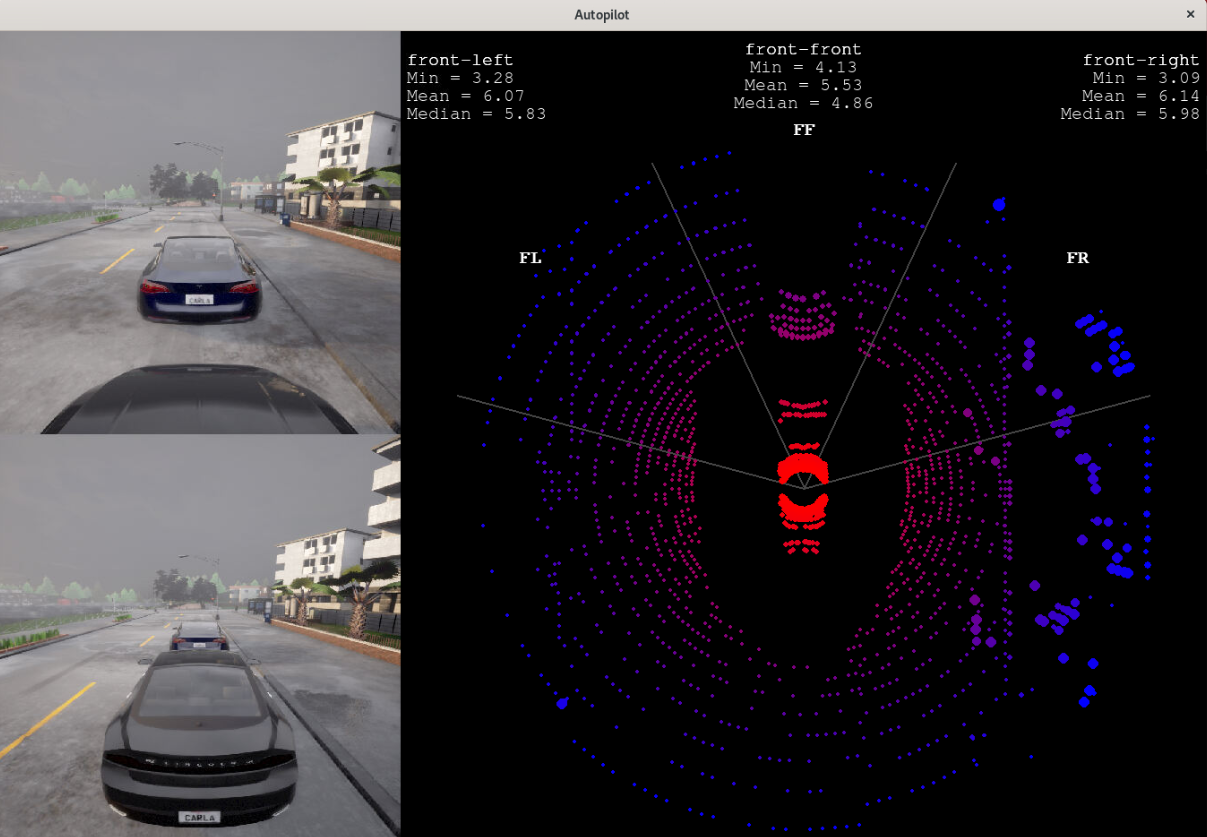
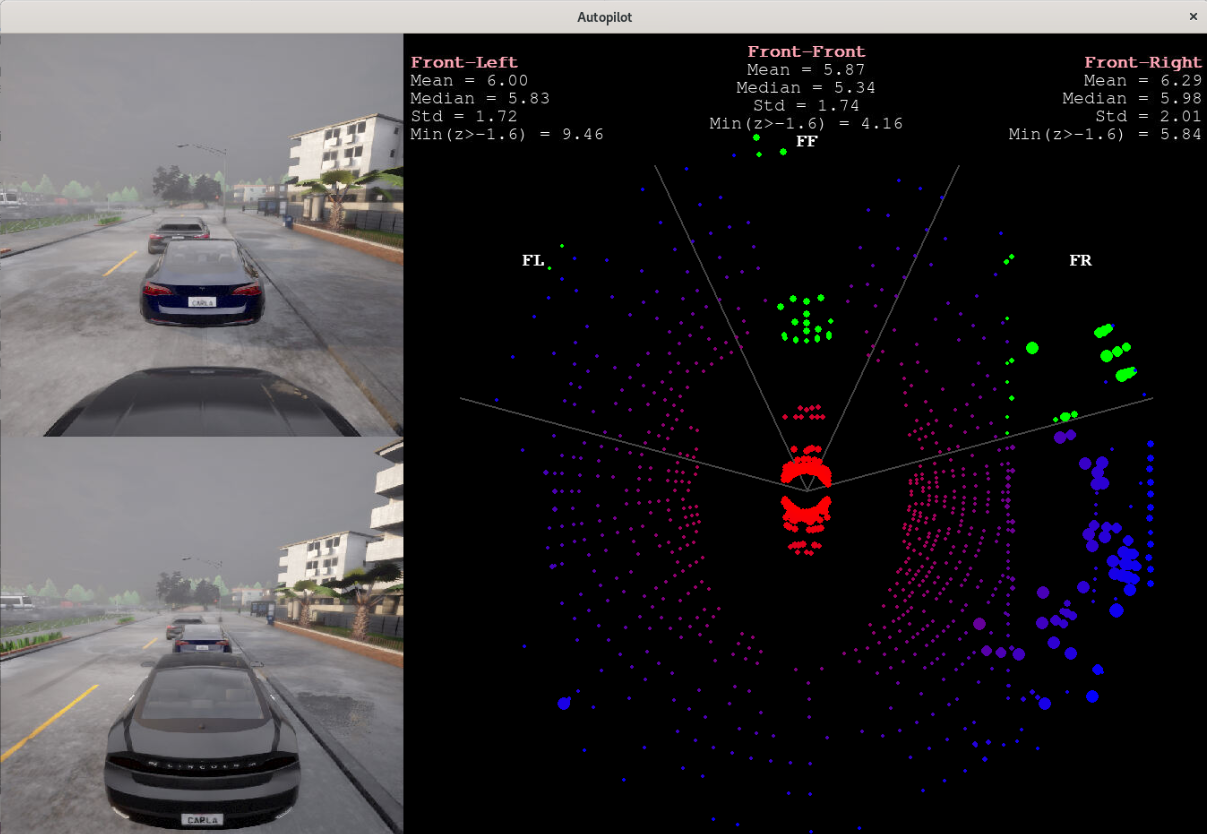
lidar terminado en blog

diff --git a/docs/_posts/2024-03-26-Perception.md b/docs/_posts/2024-03-26-Perception.md
@@ -1,6 +1,6 @@
 ---
 title: "Percepción"
-last_modified_at: 2024-04-04T21:20:00
+last_modified_at: 2024-04-11T19:21:00
 categories:
   - Blog
 tags:
@@ -67,7 +67,7 @@ En la siguiente imagen podemos ver un ejemplo de red neuronal, en el que cada ne
 - p: número de neuronas y salidas de una capa
 - f: función de activación
 <figure class="align-center" style="max-width: 100%">
-  <img src="{{ site.url }}{{ site.baseurl }}/images/perception/network.png" alt="">
+  <img src="{{ site.url }}{{ site.baseurl }}/images/perception/deep_learning/network.png" alt="">
 </figure>
 
 El proceso de entrenamiento se divide en dos etapas:
@@ -87,7 +87,7 @@ El entrenamiento se detiene cuando:
 - Se ha alcanzado la precisión deseada.
 - El error de validación diverge del error de entrenamiento, lo cual significa que estamos sobreajustando la red.
 <figure class="align-center" style="max-width: 90%">
-  <img src="{{ site.url }}{{ site.baseurl }}/images/perception/error.png" alt="">
+  <img src="{{ site.url }}{{ site.baseurl }}/images/perception/deep_learning/error.png" alt="">
 </figure>
 
 ### Redes neuronales convolucionales
@@ -110,29 +110,29 @@ model = tf.keras.Sequential([
 ])
 ```
 <figure class="align-center" style="max-width: 80%">
-  <img src="{{ site.url }}{{ site.baseurl }}/images/perception/CNN.png" alt="">
+  <img src="{{ site.url }}{{ site.baseurl }}/images/deep_learning/perception/CNN.png" alt="">
 </figure>
 
 #### Capa de convolución
 Se aplican *kernels* (o filtros) de dimensiones nxn  para extraer características locales de la imagen. , el *kernel* se va deslizando a los largo de la imagen. El *kernel* se va deslizando a lo largo de la imagen, calculando la suma ponderada de los píxeles en cada ubicación. Cada filtro produce un mapa de características que contiene las características relevantes de la imagen. En el ejemplo proporcionado, se aplican 32 filtros en la primera y cuarta capa de convolución y 64 en la segunda y tercera.
 <figure class="align-center" style="max-width: 100%">
-  <img src="{{ site.url }}{{ site.baseurl }}/images/perception/conv.jpeg" alt="">
+  <img src="{{ site.url }}{{ site.baseurl }}/images/deep_learning/perception/conv.jpeg" alt="">
 </figure>
 
 La operación de convolución reduce las dimensiones de la matriz de características. Para mantener las dimensiones constante o evitar que lleguen a cero, podemos aplicar la técnica de ***padding***, que consiste en aumentar las dimensiones añadiendo ceros sin modificar la información original. El *padding* es un parámetro flexible que puede añadirse a lo largo de toda la imagen, solo en la parte superior o en cualquier combinación deseada.
 <figure class="align-center" style="max-width: 90%">
-  <img src="{{ site.url }}{{ site.baseurl }}/images/perception/padding.png" alt="">
+  <img src="{{ site.url }}{{ site.baseurl }}/images/perception/deep_learning/padding.png" alt="">
 </figure>
 
 Otro parámetro importante es el ***stride***, que determina el número de píxeles que el *kernel* se desplaza dentro de la imagen. Este desplazamiento se aplica tanto en filas como en columnas. En el ejemplo anterior, el *stride* es uno, ahora consideremos un caso donde sea igual a dos:
 <figure class="align-center" style="max-width: 100%">
-  <img src="{{ site.url }}{{ site.baseurl }}/images/perception/stride.jpeg" alt="">
+  <img src="{{ site.url }}{{ site.baseurl }}/images/perception/deep_learning/stride.jpeg" alt="">
 </figure>
 
 #### Capa Pooling
 Estas capas reducen las dimensiones del mapa de características preservando la información más importante. Al igual que en la convolución, se desliza un *kernel* sobre la imagen. Aunque el método más común es el ***max pooling***, también existe el *average pooling*.
 <figure class="align-center" style="max-width: 90%">
-  <img src="{{ site.url }}{{ site.baseurl }}/images/perception/pooling.jpeg" alt="">
+  <img src="{{ site.url }}{{ site.baseurl }}/images/perception/deep_learning/pooling.jpeg" alt="">
 </figure>
 
 #### Capa Flatten
@@ -151,12 +151,12 @@ Las redes neuronales recurrentes o **RNN** buscan solucionar problemas en los qu
 
 Necesitamos transformar una frase de un máximo de *p* palabras en una entrada compatible para una red neuronal. Para lograrlo, necesitamos un diccionario que traduzca el texto a *tokens* según su índice. Este proceso se conoce como ***language processing problem***.
 <figure class="align-center" style="max-width: 100%">
-  <img src="{{ site.url }}{{ site.baseurl }}/images/perception/language.jpg" alt="">
+  <img src="{{ site.url }}{{ site.baseurl }}/images/perception/deep_learning/language.jpg" alt="">
 </figure>
 
 Las RNN incorporan marcas de tiempo, ***timestamps***, para abordar la importancia del orden en la secuencia de datos. Por ejemplo, para los humanos la frase '*I love cats*' es comprensible, mientras que '*I cats love*' no lo es, lo que ilustra la relevancia del orden en el lenguaje natural.
 <figure class="align-center" style="max-width: 100%">
-  <img src="{{ site.url }}{{ site.baseurl }}/images/perception/structure.jpg" alt="">
+  <img src="{{ site.url }}{{ site.baseurl }}/images/perception/deep_learning/structure.jpg" alt="">
 </figure>
 
 1. Propagación hacia delante:
@@ -174,10 +174,10 @@ Existen diversas estructuras de RNN que podemos seleccionar según el tipo de da
 - ***Bi-Directional RNN***: son útiles en casos donde el contexto es relevante. Por ejemplo: "*Tim is high on drags*" / "*Tim is high in the sky*"; en el primer caso, Tim se refiere a una persona, mientras que en el segundo, se refiere a un pájaro. Es necesario reescribir la fórmula de combinación lineal: y\<t> = f(way * [af\<t>, ab\<t>] + b), donde *af* representa la propagación desde *a0* hasta *aT*, y *ab* representa la propagación desde *aT* hasta *a0*.
 - **LSTM** (*Long Short-Term Memory*): adecuada para procesar frases muy extensas e incluso párrafos. Se añade una nueva salida c a la estructura convencional de las RNNs.
 <figure class="align-center" style="max-width: 95%">
-  <img src="{{ site.url }}{{ site.baseurl }}/images/perception/LSTM.jpg" alt="">
+  <img src="{{ site.url }}{{ site.baseurl }}/images/perception/deep_learning/LSTM.jpg" alt="">
 </figure>
 
-## SA
+## SAM
 
 Un proyecto de SA, **Segmentation Anything**, está compuesto por: tarea o *task*, SAM (*model*) y *data* (*dataset* + *data engine*).
 <figure class="align-center" style="max-width: 80%">
@@ -186,39 +186,40 @@ Un proyecto de SA, **Segmentation Anything**, está compuesto por: tarea o *task
 
 #### Task
 
-Las *tasks* se basan en el *prompt engineering*, el usuario puede proporcionar especificaciones para orientar al modelo, es decir, indicándole qué segmentar en la imagen. El hecho de ser *prompting* permite su aplicación en una variedad de escenarios, incluyendo tareas con múltiples indicaciones. Para lograrlo, existen diversos tipos de segmentación: semántica, de instancia, detección de bordes, panorámica... El objetivo es obtener al menos una máscara de segmentación válida para cualquier *prompt*, incluso si la tarea es ambigua. Se considera una máscara válida aquella que al menos detecta uno o parte de los objetos solicitados (ver el ejemplo de las tijeras en el apartado [model](#model)).
+Las *tasks* se basan en el *prompt engineering*, el usuario puede proporcionar especificaciones para orientar al modelo, es decir, indicándole qué segmentar en la imagen. El hecho de ser *prompting* permite su aplicación en una variedad de escenarios, incluyendo tareas con múltiples indicaciones. Para lograrlo, existen diversos tipos de segmentación: semántica, de instancia, detección de bordes, panorámica... El objetivo es obtener al menos una **máscara de segmentación válida** para cualquier *prompt*, incluso si la tarea es ambigua. Se considera una máscara válida aquella que al menos detecta uno o parte de los objetos solicitados.
+<figure class="align-center" style="max-width: 80%">
+  <img src="{{ site.url }}{{ site.baseurl }}/images/perception/task.png" alt="">
+</figure>
+
 
 El proceso de entrenamiento es similar a cómo se pre-entrenan los modelos de procesamiento del lenguaje natural (NLP). El modelo se entrena con una gran variedad de tareas que fomentan la generalización, con el objetivo de lograr ser ***zero-shot***. Un modelo *zero-shot* es capaz de realizar una tarea sin haber sido explícitamente entrenado para ella y sin necesidad de entrenamiento adicional con nuevos datos. El *fine-tuning* consiste en entrenar un modelo ya pre-entrenado para tareas específicas, lo que suele requerir pocos datos nuevos (*few-shot*).
 
 #### Model
 
-Un SAM, *Segemnet Anything model*, tiene tres coponentes: *image endocer*, *promt encoder* y *mask decoder*.
+Un SAM, *Segemnet Anything model*, tiene tres componentes: *image endocer*, *promt encoder* y *mask decoder*.
 <figure class="align-center" style="max-width: 100%">
-  <img src="{{ site.url }}{{ site.baseurl }}/images/perception/SAM.png" alt="">
+  <img src="{{ site.url }}{{ site.baseurl }}/images/perception/model.png" alt="">
 </figure>
 
-- ***Image encoder***: su salida es un vector numérico que representa la imagen, conocido como *image embedding*.
+- ***Image encoder***: produce un vector numérico que representa la imagen, conocido como *image embedding*.
 
-- ***Prompt encoder***: es flexible a diversos tipos de *promt*, transformar *promts* de NLP(texto) o imágenes(puntos, *bounding boxes*, máscaras) a representaciones numericas.
+- ***Prompt encoder***: es flexible ante diversos tipos de *promt*: NLP(texto) o imágenes(puntos, *bounding boxes*, máscaras), los cuales transforma a representaciones numéricas.
 
-- ***Mask decoder***: queremso que nuestro modleo sea eficiente y sea interactivo en *promting* en tiempo real, para ello necesitamos un decodificacor rápido ∼50ms en CPU.
-
-esas pasana al entrda del decofificador permite la sintesis d einfo entre pormt e imagen 
-mascra de segmentacion = "embedding" de la imagen, los "embeddings" de las indicaciones y un token de salida????????
-El "mask decoder" toma la representación de la imagen y las indicaciones como entrada.
-Utiliza el modelo preentrenado para procesar la imagen y las indicaciones, y genera un "token de salida".
-Este "token de salida" representa la predicción del modelo sobre la máscara de segmentación, es decir, qué partes de la imagen son probablemente el perro y qué partes son el fondo.
-
- el modelo promediará múltiples máscaras válidas si se le proporciona una indicación ambigua. Para abordar esto, modificamos el modelo para predecir múltiples máscaras de salida para una única indicación. Se considera que 3 salidas para un unico promt es sufuciente para asegurarnos d eobtener una respuest avalida.
+- ***Mask decoder***: permite la síntesis entre *image embedding*, *promt embedding* y el *token* de salida (*mask*). Para asegurar la eficiencia y precisión, el modelo propone tres posibles máscaras de salida ante un único *promt*. Asimismo, para garantizar rapidez y capacidad de interacción en tiempo real, el modelo debe ser capaz de decodificar en aproximadamente 50ms en una CPU.
 
 #### Data
 
-anotaciones y dudas:
--  responsabilida ia -> variaedad de paises y personas para que se adepte de forma igualitaria a tod oene le mundo real
-- datset: Our final dataset, SA-1B, includes more than 1B masks from 11M licensed and privacy-preserving image
-- -----
-- que es la mascara que  se le itrduce al modleo en la conv esa??? para que sirve???
-- data engine -> se necesitan muechos y variados para una buena generalizaciön -> resolver el problema de que las mascras/filtros no son abundantes:
+Nuestro ***dataset***, SA-1B, consta de 11M de imágenes bajo licencia, diversas y de alta resolución (3300x4950 píxeles de media), lo que plantea desafíos en cuanto a accesibilidad y almacenamiento. Además, incluye 1.1B de máscaras de alta calidad generadas automáticamente.
+
+...
+
+#### RAI
+
+La **responsabilidad** en la inteligencia artificial es crucial. Nuestro conjunto de datos garantiza equidad geográfica y de ingresos, todas las regiones cuentan con al menos 28 millones de máscaras, a diferencia de otros conjuntos de datos donde, por ejemplo, África tiene menos peso que continentes como Asia o Europa. Además, asegura imparcialidad en el tratamiento de personas, independientemente de su género, edad o color de piel.
+
+#### Conclusión
+
+SAM es un modelo *zero-shot* que muestra resultados prometedores ene le mundo de la segmentación de imágenes, a pesar de tener algunas limitaciones como la omisión de estructuras finas, se espera que se demuestre su utilidad integrándolo en aplicaciones del mundo real.
 
 ## EfficientVit
 

diff --git a/docs/_posts/2024-03-13-Autopilot.md b/docs/_posts/2024-03-13-Autopilot.md
@@ -1,6 +1,6 @@
 ---
 title: "Autopiloto"
-last_modified_at: 2024-04-08T21:26:00
+last_modified_at: 2024-04-11T21:57:00
 categories:
   - Blog
 tags:
@@ -39,10 +39,16 @@ class Vehicle_sensors:
 class Lidar(Sensor): 
     def __init__(self, size:Tuple[int, int], init:Tuple[int, int], sensor:carla.Sensor,
                  scale:int, front_angle:int, yaw:float, screen:pygame.Surface)
-    def process_data(self):
 
-    def set_intensity_threshold(self, i:float)
-    def get_intensity_threshold(self)
+    def process_data(self)
+    def get_stat_zones(self)
+    def get_meas_zones(self)
+    
+    def set_i_threshold(self, i:float)
+    def get_i_threshold(self)
+    
+    def set_z_threshold(self, z:float)
+    def get_z_threshold(self)
 ```
 
 En primer lugar, es necesario transformar los datos del láser en una matriz de matrices, donde cada submatriz almacena las coordenadas *x*, *y*, *z* y la intensidad respectivamente. Cada una de estas submatrices representa un punto.
@@ -102,10 +108,34 @@ En nuestro caso, con un *yaw* de 90º, obtendríamos los ángulos: [-165.0, -115
 
 #### Cálculo de estadísticas
 ---
-Hacemos tres listas, cada una correspondiente a una de las zona, en las que guardamos las distancias desde el punto hasta el centro del láser en el plano XY. Utilizamos estas medidas para calcular el mínimo, la media, la mediana y la desviación estándar de los en cada zona del láser. _______ retocar y completar
 
-Como se puede observar en la imagen, los puntos de color rojo corresponden al propio coche, por lo tanto, hemos realizado un filtrado por intensidad para eliminarlos del cálculo estadístico. Este umbral tiene un valor predeterminado establecido en el constructor, pero hemos implementado unas funciones para consultar o modificar su valor.
+Creamos una lista de dos elementos ***meas_zones***. En el primero, almacenamos una lista que a su vez contiene tres listas, cada una contiene las distancias desde el punto hasta el centro del láser en el plano XY de cada zona. En el segundo elemento, guardamos de la misma manera las alturas *z*. Utilizamos estas medidas para calcular la media, la mediana, la desviación estándar y el mínimo en cada zona, ***stat_zones***.
+
+Como se puede observar en la imagen, los puntos de color rojo corresponden al propio coche, por lo tanto, hemos realizado un filtrado por intensidad para eliminarlos del cálculo estadístico. Este umbral tiene un valor predeterminado establecido en el constructor, pero hemos implementado unas funciones para consultar o modificar su valor. De manera similar, para calcular el mínimo, filtramos por altura para eliminar todos los puntos correspondientes a la calzada.
 <figure class="align-center" style="max-width: 100%">
   <img src="{{ site.url }}{{ site.baseurl }}/images/autopilot/stats.png" alt="">
 </figure>
 
+#### Histogramas
+
+Vamos a generar histogramas utilizando las distancias detectadas en la zona central frontal del vehículo, con el objetivo de distinguir la presencia de obstáculos y las distancias a las que se encuentran.
+
+- En un escenario sin obstáculos, observamos que no hay ningún valor que sobresalga entre los demás.
+<figure class="align-center" style="max-width: 80%">
+  <img src="{{ site.url }}{{ site.baseurl }}/images/autopilot/hist_empty.png" alt="">
+</figure>
+
+- Cuando hay un coche delante, notamos cómo se dispara la columna que representa el rango de distancia de 5-6 metros, lo cual concuerda con la medida mínima detectada.
+<figure class="align-center" style="max-width: 80%">
+  <img src="{{ site.url }}{{ site.baseurl }}/images/autopilot/hist_car.png" alt="">
+</figure>
+
+- Si añadimos un camión a la izquierda, observamos que las medidas en el rango de 8-9 metros aumentan considerablemente. Hay dos columnas que sobresalen sobre las demás, indicando la presencia de dos obstáculos.
+<figure class="align-center" style="max-width: 80%">
+  <img src="{{ site.url }}{{ site.baseurl }}/images/autopilot/hist_car_truck.png" alt="">
+</figure>
+
+- En el caso de tener una moto delante, el cambio en los valores no es tan significativo como en el caso del coche, dado que es de tamaño menor. Sin embargo, el cambio es lo suficientemente notable respecto al escenario vacío como para detectar la presencia de la motocicleta.
+<figure class="align-center" style="max-width: 80%">
+  <img src="{{ site.url }}{{ site.baseurl }}/images/autopilot/hist_motorbike.png" alt="">
+</figure>
